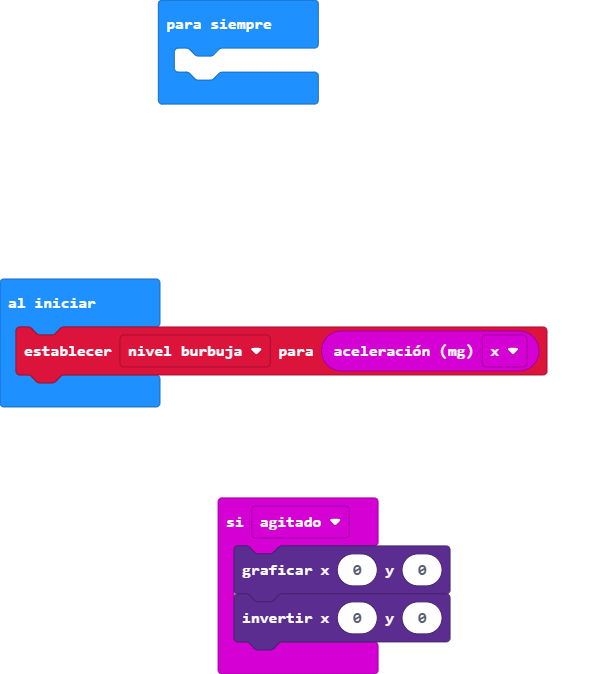
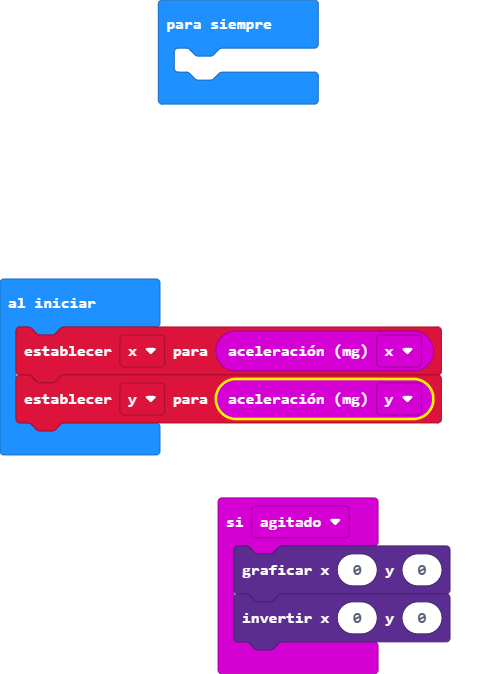
Actualizar main.blocks, main.ts

Changed region(s): [[0.0, 0.405, 0.9263, 0.6855], [0.3586, 0.7166, 0.8964, 1.0], [0.239, 0.0, 0.6574, 0.1558]]

diff --git a/main.ts b/main.ts
@@ -2,7 +2,8 @@ input.onGesture(Gesture.Shake, function () {
     led.plot(0, 0)
     led.toggle(0, 0)
 })
-let nivel_burbuja = input.acceleration(Dimension.X)
+let x = input.acceleration(Dimension.X)
+let y = input.acceleration(Dimension.Y)
 basic.forever(function () {
 	
 })
